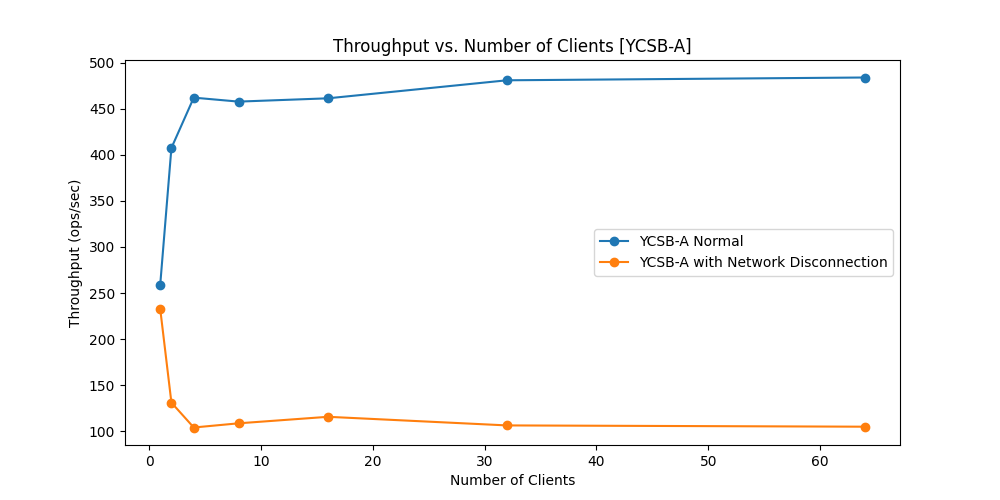
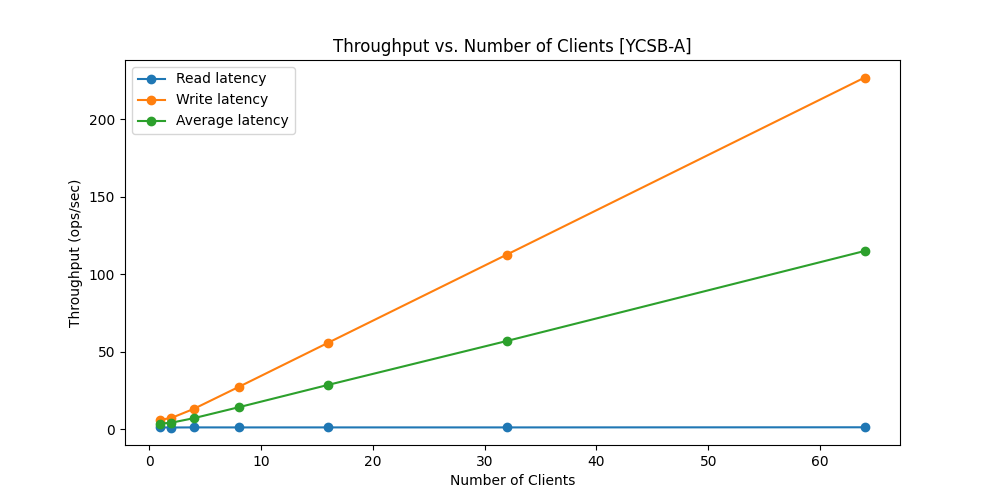
f

diff --git a/plot/plotlatency.py b/plot/plotlatency.py
@@ -2,23 +2,67 @@ import matplotlib.pyplot as plt
 
 # Data points for YCSB-A
 x_a = [1, 2, 4, 8, 16, 32, 64]
-y_a= []
+Aread_time = [1.167986, 1.110566, 1.177052, 1.160599, 1.173142, 1.166381, 1.248513]
+Awrite_time = [6.062137, 7.282872, 13.123879, 27.224526, 55.740565, 112.683822, 226.901277]
+Atotal_time = [3.625986, 4.213716, 7.121323, 14.154026, 28.570923, 56.93856, 115.006961]
 
 
-x_a_d = [1, 2, 4, 8, 16, 32, 64]
-
-y_a_d = [232.73,131.24,104.24,108.77,115.84,106.50,105.11]
 
 
 
 
 # Creating the plot for YCSB-A
 plt.figure(figsize=(10, 5))
-plt.plot(x_a, y_a, marker='o', label='YCSB-A Normal')
-plt.plot(x_a_d, y_a_d, marker='o', label='YCSB-A with Network Disconnection')
-plt.title('Throughput vs. Number of Clients [YCSB-A]')
+plt.plot(x_a, Aread_time, marker='o', label='Read latency')
+plt.plot(x_a, Awrite_time, marker='o', label='Write latency')
+plt.plot(x_a, Atotal_time, marker='o', label='Average latency')
+plt.title('Latency vs. Number of Clients [YCSB-A]')
 plt.xlabel('Number of Clients')
-plt.ylabel('Throughput (ops/sec)')
+plt.ylabel('Latency (Millsec/op)')
 plt.legend()
-plt.savefig('/home/Jamiroq/Documents/GitHub/myRabia/plot/throughput_plot-A.png')
+plt.savefig('/home/Jamiroq/Documents/GitHub/myRabia/plot/latency_plot-A.png')
+plt.close()
+
+
+
+x_b = [1, 2, 4, 8, 16, 32, 64]
+Bread_time = [
+    1.153677,
+    1.127185,
+    1.163875,
+    1.187547,
+    1.208233,
+    1.210139,
+    1.220473
+]
+
+Bwrite_time = [
+    6.458360,
+    6.711459,
+    7.661122,
+    12.746564,
+    40.487863,
+    101.125989,
+    217.936855
+]
+
+Btotal_time = [
+    1.425998,
+    1.409084,
+    1.484194,
+    1.760910,
+    3.168614,
+    6.220303,
+    12.082078
+]
+
+plt.figure(figsize=(10, 5))
+plt.plot(x_b, Bread_time, marker='o', label='Read latency')
+plt.plot(x_b, Bwrite_time, marker='o', label='Write latency')
+plt.plot(x_b, Btotal_time, marker='o', label='Average latency')
+plt.title('Latency vs. Number of Clients [YCSB-B]')
+plt.xlabel('Number of Clients')
+plt.ylabel('Latency (Millsec/op)')
+plt.legend()
+plt.savefig('/home/Jamiroq/Documents/GitHub/myRabia/plot/latency_plot-B.png')
 plt.close()

diff --git a/GClient/GClient.go b/GClient/GClient.go
@@ -91,7 +91,12 @@ func YCSB(command string, stopChannel chan bool, reportChannel chan Report, ID i
 		select {
 		case <-stopChannel:
 			readTimeAverage := readTime / time.Duration(readCnt)
-			writeTimeAverage := writeTime / time.Duration(writeCnt)
+			var writeTimeAverage time.Duration
+			if writeCnt == 0 {
+				writeTimeAverage = 0
+			}else{
+				writeTimeAverage = writeTime / time.Duration(writeCnt)
+			}
 			totalAverage := total / time.Duration(cnt)
 			fmt.Println("Client stopped")
 			reportChannel <- Report{commandNum: cnt, readTime: readTimeAverage, writeTime: writeTimeAverage, totalTime: totalAverage}
